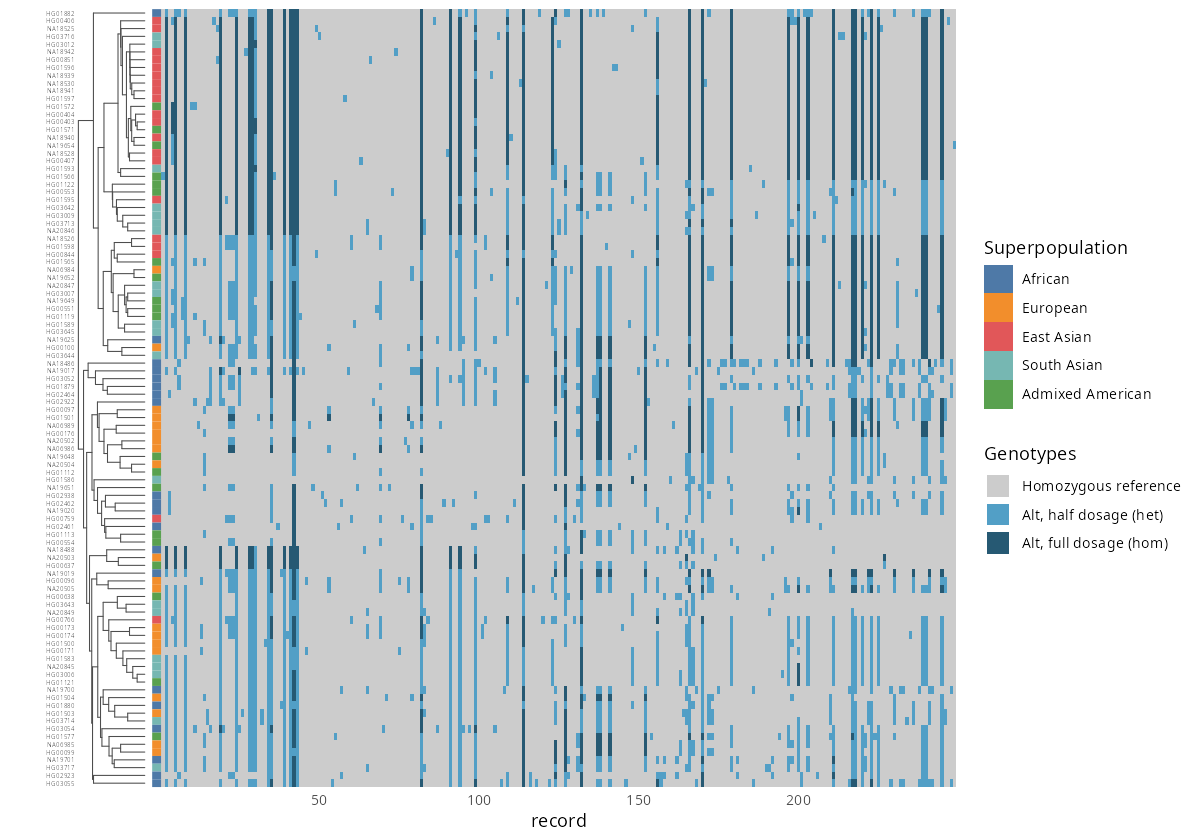
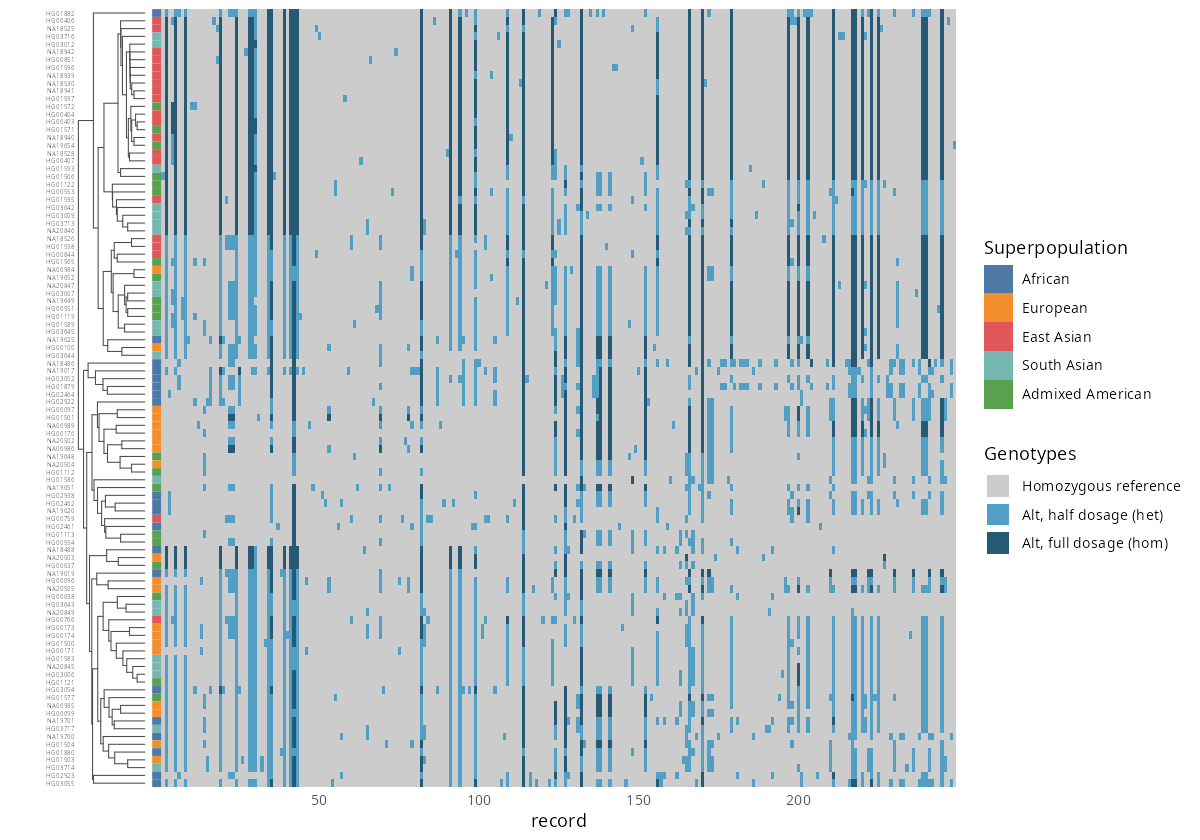
A variant matrix takes any tree as x$tree; jbrowse_cluster() goes
jbrowse_cluster() bundled a genotype matrix, one clustering and the row
reorder into one helper, and only its tree drew. A result's tree is now
whatever the caller sets in x$tree, an hclust or anything as.hclust()
takes, labelled by row name; the rows take its leaf order and
geom_jbrowse_tree() draws it, leaf by label, in autoplot(), in a stack or
in a plot of one's own. The README clusters with the hclust(dist()) call
the display's dialog writes, over the cells' exact dosages.

diff --git a/README.md b/README.md
@@ -205,13 +205,16 @@ autoplot(v, layout = "columns")
 
 ![100 people of the 1000 Genomes, 20 from each superpopulation, genotyped at 249 variants across DCST2 (GRCh37), a column per record, each row marked by its superpopulation](man/figures/variants.png)
 
-`jbrowse_cluster()` orders the rows by genotype, as the display's "Cluster
-rows by genotype" does: average-linkage `hclust()` over each row's alt
-dosages. `autoplot()` draws the tree beside the rows, and `v$tree` is the
-`hclust` result:
+The matrix draws its rows in `v$rows`' order: reorder or filter that table
+to rearrange them. A tree in `v$tree` puts the rows in its leaf order, and
+`autoplot()` draws it beside them (`geom_jbrowse_tree()`). Any clustering
+that gives an `hclust`, or anything `as.hclust()` takes, labelled by row
+name, will do. This one is the `hclust(dist())` call the display's "Cluster
+rows by genotype" dialog writes as R, over the cells' alt dosages:
 
 ```r
-autoplot(jbrowse_cluster(v), layout = "columns")
+v$tree <- hclust(dist(xtabs(dosage ~ row + variant, v$cells)), "average")
+autoplot(v, layout = "columns")
 ```
 
 ![The same people clustered: most East Asians gather near the top, the Africans and Europeans further down, the tree beside the rows](man/figures/variants-clustered.png)
